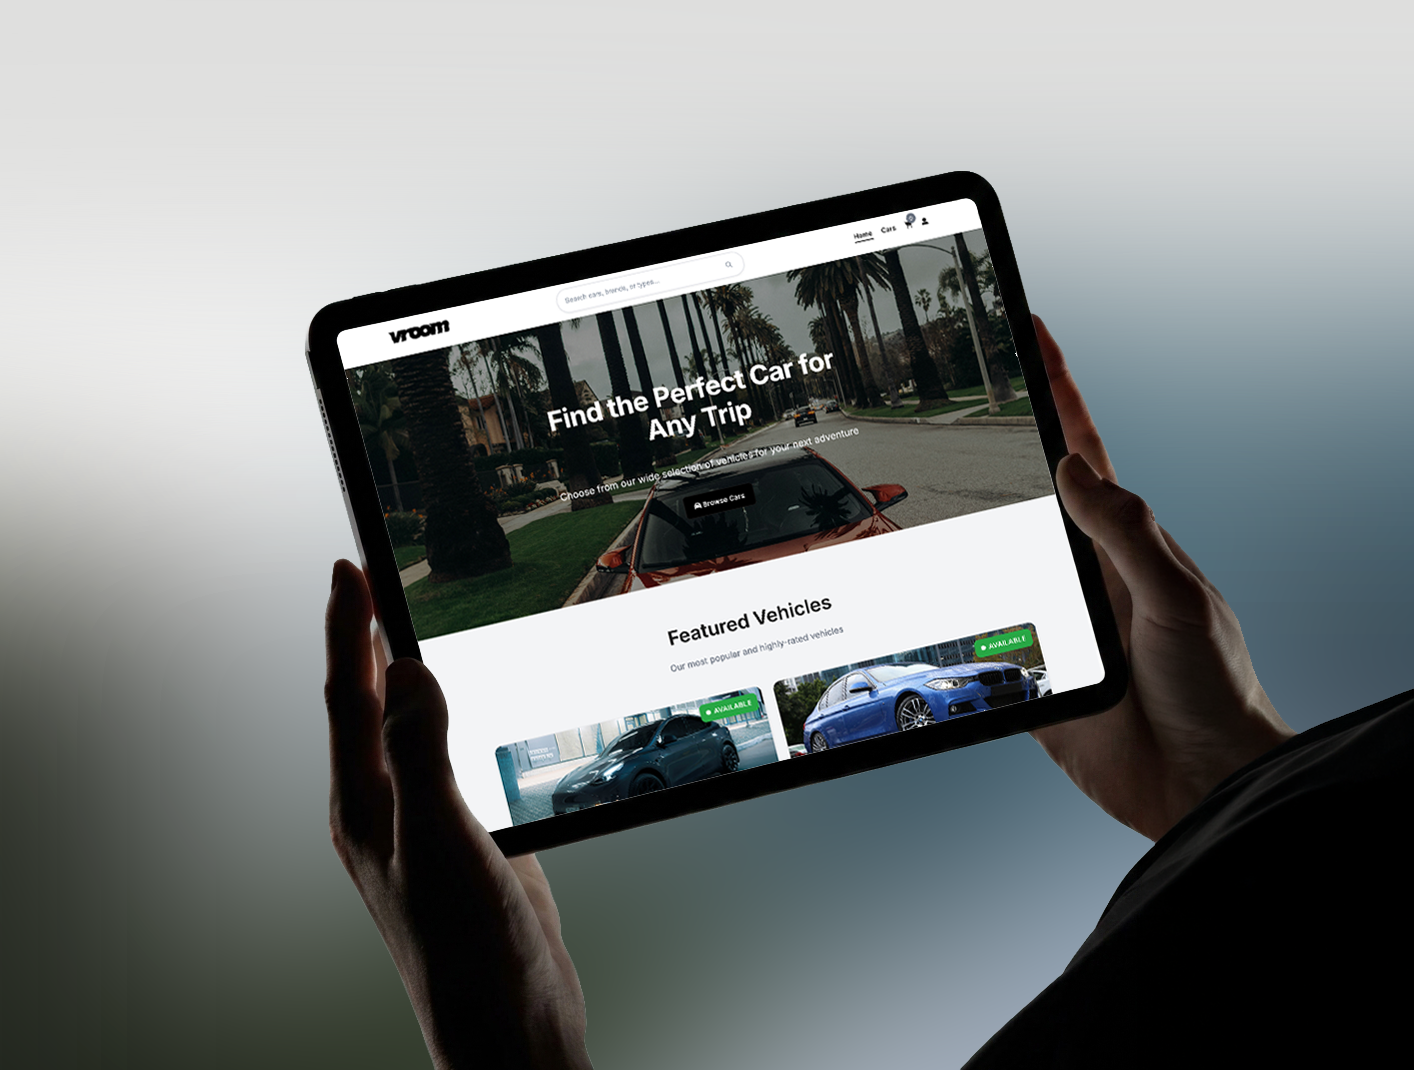
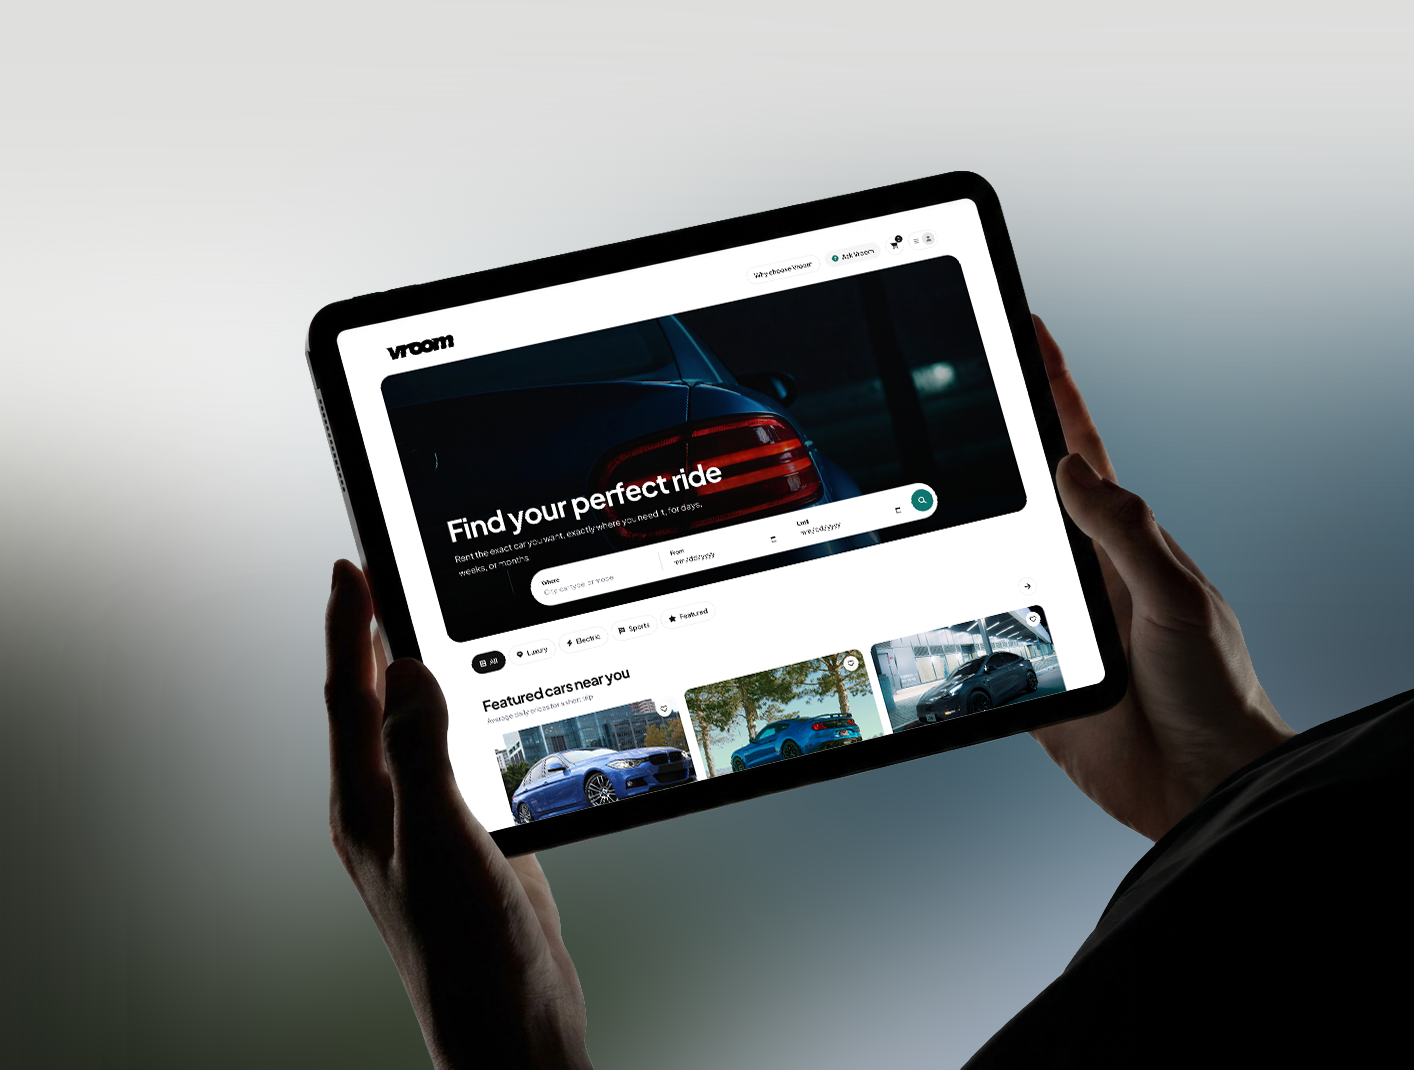
Updated project cards in index.html to reflect new project details for Vroom and HealthSync, including links, images, and descriptions. Modified vroom.html to enhance project description and architecture details. Updated associated images for Vroom. Adjusted tags to better represent technologies use

Changed region(s): [[0.2489, 0.185, 0.7779, 0.771]]

diff --git a/index.html b/index.html
@@ -135,6 +135,32 @@
                     </div>
                 </article>
                 <article class="card">
+                    <a href="vroom.html" class="card-cover">
+                        <div class="card-media">
+                            <img src="img/vroom.png" alt="Vroom car rental platform" loading="lazy" width="550" height="310">
+                            <div class="card-tags">
+                                <span class="tag">Express.js</span>
+                                <span class="tag">Node.js</span>
+                                <span class="tag">Tailwind</span>
+                            </div>
+                            <div class="card-overlay" aria-hidden="true"></div>
+                        </div>
+                    </a>
+                    <div class="card-body">
+                        <div class="card-heading">
+                            <h3><a href="vroom.html">Vroom</a></h3>
+                            <div class="card-actions">
+                                <a href="https://vroom-fkabaklics-projects.vercel.app/" target="_blank" rel="noopener noreferrer" class="view-button" data-project="Vroom">View Site</a>
+                                <a href="https://github.com/fkabaklic/vroom" target="_blank" rel="noopener noreferrer" class="github-button" aria-label="Vroom on GitHub">
+                                    <span class="icon" data-icon="github" aria-hidden="true"></span>
+                                    GitHub
+                                </a>
+                            </div>
+                        </div>
+                        <p class="card-desc">Car rental platform with Express.js and Node.js.</p>
+                    </div>
+                </article>
+                <article class="card">
                     <a href="healthsync.html" class="card-cover">
                         <div class="card-media">
                             <img src="img/healthsync.png" alt="HealthSync glucose monitor app" loading="lazy" width="550" height="310">
@@ -157,32 +183,6 @@
                             </div>
                         </div>
                         <p class="card-desc">Health-tech marketing site built with responsive CSS Grid and Flexbox layouts.</p>
-                    </div>
-                </article>
-                <article class="card">
-                    <a href="vroom.html" class="card-cover">
-                        <div class="card-media">
-                            <img src="img/vroom.png" alt="Vroom car rental platform" loading="lazy" width="550" height="310">
-                            <div class="card-tags">
-                                <span class="tag">Express</span>
-                                <span class="tag">MariaDB</span>
-                                <span class="tag">SQL</span>
-                            </div>
-                            <div class="card-overlay" aria-hidden="true"></div>
-                        </div>
-                    </a>
-                    <div class="card-body">
-                        <div class="card-heading">
-                            <h3><a href="vroom.html">Vroom</a></h3>
-                            <div class="card-actions">
-                                <a href="https://vroom-fkabaklics-projects.vercel.app/" target="_blank" rel="noopener noreferrer" class="view-button" data-project="Vroom">View Site</a>
-                                <a href="https://github.com/fkabaklic/vroom" target="_blank" rel="noopener noreferrer" class="github-button" aria-label="Vroom on GitHub">
-                                    <span class="icon" data-icon="github" aria-hidden="true"></span>
-                                    GitHub
-                                </a>
-                            </div>
-                        </div>
-                        <p class="card-desc">Car rental platform with Express.js and Node.js.</p>
                     </div>
                 </article>
                 <article class="card">

diff --git a/vroom.html b/vroom.html
@@ -65,9 +65,8 @@
                 <h2>A full-stack car rental platform, built to show backend fundamentals.</h2>
                 <div class="tags">
                     <div class="tag">Express</div>
-                    <div class="tag">EJS</div>
-                    <div class="tag">MariaDB</div>
                     <div class="tag">SQL</div>
+                    <div class="tag">Tailwind</div>
                 </div>
                 <p class="project-dek">A full-stack car rental platform built as a server-rendered Express app with session-based authentication and a MariaDB database I query directly with SQL, no ORM. I built it solo as my DePaul capstone.</p>
 
@@ -88,28 +87,29 @@
                 <section class="case-section">
                     <h2>The brief.</h2>
                     <p>Vroom started as a business proposal for a peer-to-peer rental marketplace where car owners list idle vehicles for renters to book, Turo-style, aimed at travelers and remote workers.</p>
-                    <p>From that vision I scoped and built the core rental engine: the parts that had to be solid before any marketplace layer made sense: accounts, vehicle inventory, and bookings.</p>
+                    <p>From that vision I scoped and built the core rental engine: the parts that had to be solid before any marketplace layer made sense. That meant accounts, vehicle inventory, and bookings.</p>
                 </section>
 
                 <section class="case-section">
                     <h2>Architecture.</h2>
-                    <p>Server-rendered with Express and EJS layouts, so pages are assembled on the server rather than shipped as a client bundle. Authentication runs on <code>express-session</code> with <code>bcrypt</code>-hashed passwords.</p>
-                    <p>The data layer is MariaDB accessed through the native driver. I wrote the schema and every query by hand instead of reaching for an ORM, because I wanted to understand exactly what each query did rather than trust an abstraction to do it for me. Configuration lives in environment variables, requests are logged with Morgan, and it's deployed on Vercel.</p>
+                    <p>Server-rendered with Express and EJS, so pages are assembled on the server rather than shipped as a client bundle. The interface is styled in Tailwind CSS, compiled through its own build step. Authentication runs on <code>express-session</code> with <code>bcrypt</code>-hashed passwords.</p>
+                    <p>The data layer is MariaDB hosted on Railway, accessed through the native driver. I wrote the schema and every query by hand instead of reaching for an ORM, because I wanted to understand exactly what each query did rather than trust an abstraction to do it for me. Configuration lives in environment variables, requests are logged with Morgan, and the app is deployed on Vercel against the Railway-hosted database.</p>
                 </section>
 
                 <section class="case-section">
                     <h2>The interesting problems.</h2>
                     <ul class="case-list">
                         <li><strong>Authentication, done properly.</strong> Session-based login with bcrypt password hashing means no plaintext and no shortcuts. Getting the session lifecycle and password handling right is unglamorous, but it has to be correct.</li>
-                        <li><strong>Modeling the data by hand.</strong> Users, vehicles, and bookings are related tables joined with SQL I wrote myself. It is a from-scratch relational model rather than an ORM-generated one.</li>
-                        <li><strong>Server-rendered, on purpose.</strong> Choosing EJS and server rendering over a client framework kept the app simple and fast for what it needed to do: the right tool for the scope, not the flashiest one.</li>
-                        <li><strong>Booking and availability.</strong> The platform establishes the booking model around users, vehicles, and rental dates. The next hardening step is date-range conflict handling so the same car cannot be double-booked.</li>
+                        <li><strong>Modeling the data by hand.</strong> Users, vehicles, and bookings are related tables joined with SQL I wrote myself. It's a from-scratch relational model rather than an ORM-generated one, with my own scripts to initialize, seed, and test the database.</li>
+                        <li><strong>Wiring up hosted infrastructure.</strong> Moving the database to a managed Railway instance meant handling connection config, environment separation, and a deploy that talks to a remote DB. It's the unglamorous plumbing that makes a project run for other people, not just on my machine.</li>
+                        <li><strong>Server-rendered, on purpose.</strong> Choosing EJS and server rendering over a client framework kept the app simple and fast for its scope. The right tool for the job, not the flashiest one.</li>
+                        <li><strong>Booking and availability.</strong> The platform models bookings around users, vehicles, and rental dates. The next hardening step is date-range conflict handling so the same car can't be double-booked.</li>
                     </ul>
                 </section>
 
                 <section class="case-section">
                     <h2>What I'd build next.</h2>
-                    <p>The proposal imagined a revenue-generating marketplace; the shipped app is the core engine without payments or the owner-listing side. The honest roadmap is a payment flow to realize the marketplace vision, peer-to-peer listing features that let owners put their own cars up, and availability-conflict handling for overlapping booking dates.</p>
+                    <p>The proposal imagined a revenue-generating marketplace. The shipped app is the core engine. The honest roadmap is a payment flow to realize the marketplace vision, peer-to-peer listing features that let owners put their own cars up, and date-overlap conflict handling so bookings can't collide.</p>
                 </section>
             </div>
         </div>